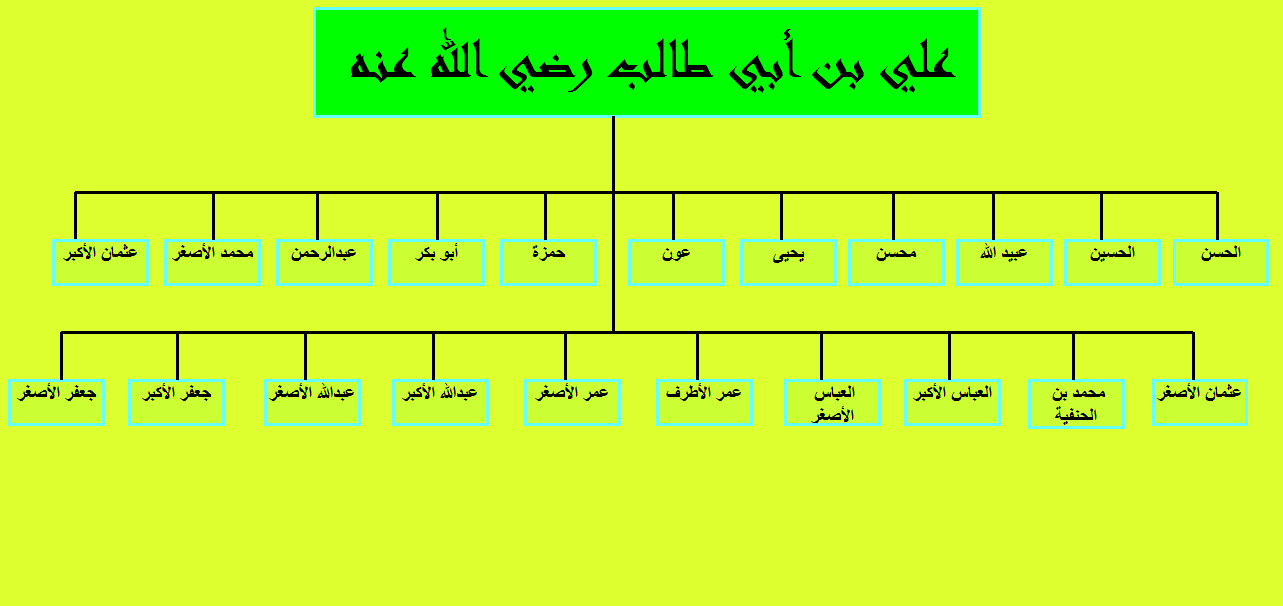
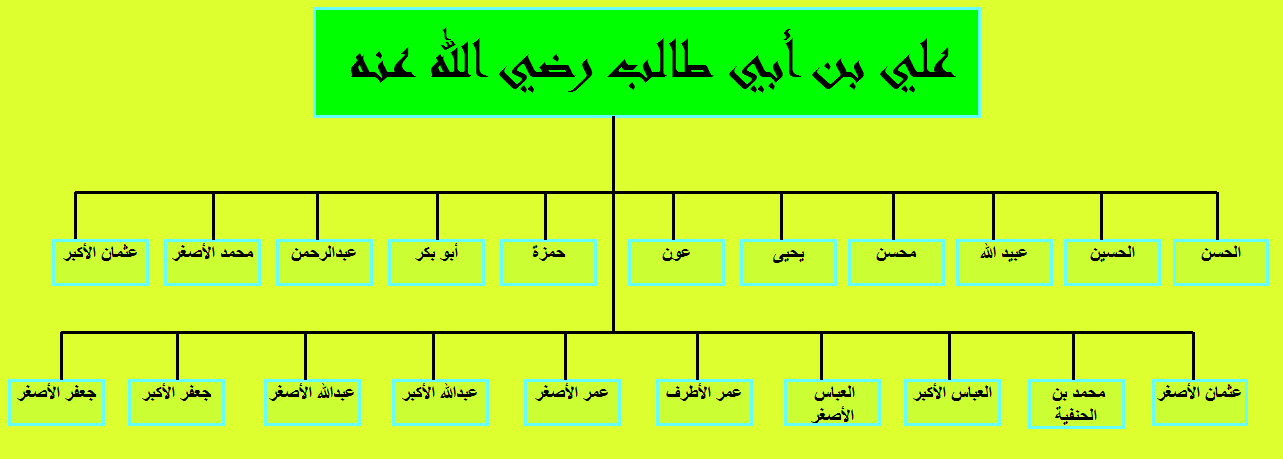
update

diff --git a/ali-ben-abitaleb.html b/ali-ben-abitaleb.html
@@ -30,7 +30,7 @@ function FP_getObjectByID(id,o) {//v1.0
 </script>
 </head>
 
-<body onload="FP_preloadImgs(/*url*/'button1662.gif',/*url*/'button1663.gif',/*url*/'button1664.gif',/*url*/'buttonA84.gif',/*url*/'buttonF48.gif',/*url*/'button1665.gif')" style="background-color: #DEFF2F">
+<body onload="FP_preloadImgs(/*url*/'button1662.gif',/*url*/'button1663.gif',/*url*/'button1664.gif',/*url*/'buttonA84.gif',/*url*/'buttonF48.gif',/*url*/'button1665.gif',/*url*/'button1933.gif',/*url*/'button1934.gif')" style="background-color: #DEFF2F; height: 569px;">
 
 <div id="layer1" style="position: absolute; width: 86px; height: 16px; z-index: 1; left: 1189px; top: 304px">
 	<a href="alhassan-ben-ali.html">
@@ -40,8 +40,13 @@ function FP_getObjectByID(id,o) {//v1.0
 	<img id="img2" alt="الاحفاد" height="16" onmousedown="FP_swapImg(1,0,/*id*/'img2',/*url*/'buttonA84.gif')" onmouseout="FP_swapImg(0,0,/*id*/'img2',/*url*/'button1667.gif')" onmouseover="FP_swapImg(1,0,/*id*/'img2',/*url*/'button1664.gif')" onmouseup="FP_swapImg(0,0,/*id*/'img2',/*url*/'button1664.gif')" src="button1667.gif" style="border: 0" width="80" /><!-- MSComment="ibutton" fp-style="fp-btn: Metal Capsule 6; fp-font-style: Bold; fp-transparent: 1" fp-title="الاحفاد" --></a></div>
 <div id="layer3" style="position: absolute; width: 111px; height: 33px; z-index: 3; left: 14px; top: 19px">
 	<a href="index.html">
-	<img id="img3" alt="الصفحة الرئيسية" height="22" onmousedown="FP_swapImg(1,0,/*id*/'img3',/*url*/'button1665.gif')" onmouseout="FP_swapImg(0,0,/*id*/'img3',/*url*/'buttonE57.gif')" onmouseover="FP_swapImg(1,0,/*id*/'img3',/*url*/'buttonF48.gif')" onmouseup="FP_swapImg(0,0,/*id*/'img3',/*url*/'buttonF48.gif')" src="buttonE57.gif" style="border: 0" width="112" /><!-- MSComment="ibutton" fp-style="fp-btn: Metal Capsule 3; fp-font-style: Bold; fp-transparent: 1" fp-title="الصفحة الرئيسية" --></a></div>
-<img alt="" height="606" src="ali-ben-abitaleb.png" width="1283" />
+	<img id="img3" alt="الصفحة الرئيسية" height="22" onmousedown="FP_swapImg(1,0,/*id*/'img3',/*url*/'button1665.gif')" onmouseout="FP_swapImg(0,0,/*id*/'img3',/*url*/'buttonE57.gif')" onmouseover="FP_swapImg(1,0,/*id*/'img3',/*url*/'buttonF48.gif')" onmouseup="FP_swapImg(0,0,/*id*/'img3',/*url*/'buttonF48.gif')" src="buttonE57.gif" style="border: 0" width="112" /><!-- MSComment="ibutton" fp-style="fp-btn: Metal Capsule 3; fp-font-style: Bold; fp-transparent: 1" fp-title="الصفحة الرئيسية" --></a><div id="layer4" style="position: absolute; width: 165px; height: 40px; z-index: 1; left: 993px; top: 528px">
+		<a href="http://alsallabi.com/s2/_lib/file/doc/Book161C.pdf">
+		<img id="img4" alt="سيرة علي بن أبي طالب" height="32" onmousedown="FP_swapImg(1,0,/*id*/'img4',/*url*/'button1934.gif')" onmouseout="FP_swapImg(0,0,/*id*/'img4',/*url*/'button1935.gif')" onmouseover="FP_swapImg(1,0,/*id*/'img4',/*url*/'button1933.gif')" onmouseup="FP_swapImg(0,0,/*id*/'img4',/*url*/'button1933.gif')" src="button1935.gif" style="border: 0" width="162" /><!-- MSComment="ibutton" fp-style="fp-btn: Metal Capsule 2; fp-font-style: Bold; fp-transparent: 1" fp-title="سيرة علي بن أبي طالب" --></a></div>
+</div>
+<p>
+<img height="459" src="ali-ben-abitaleb.png" width="1283" /></p>
+&nbsp;
 
 </body>
 
